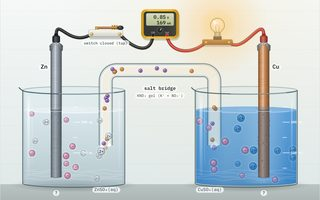
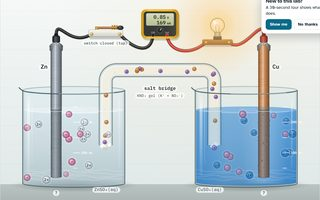
Galvanic Cell: Exercise screen and solving it in the lab
- Pick two half-cells and concentrations (0.001-2 M); concentration cells too
- Steps: build the cell, predict the anode, half-equations and overall, E°cell, set concentrations, voltmeter, Nernst emf, check with the readings, cell notation, answers
- Typographic minus in the E°cell readout

Claude-Session: https://claude.ai/code/session_01EJxk2nM6avKJzUWi38t4jE

diff --git a/galvanic-cell-lab.html b/galvanic-cell-lab.html
@@ -166,6 +166,13 @@ footer{color:var(--muted);font-size:.85rem;border-top:1px solid var(--line);padd
 .stage-ui .legend3{font-size:12.5px}
 .stage-ui #axis{border:1px solid var(--line);border-radius:10px}
 .stage-ui .solo-in{padding:8px 4px 20px}
+.stage-ui .exhead{display:flex;align-items:center;justify-content:space-between;gap:12px;flex-wrap:wrap}.stage-ui .exhead h2{margin:0;font:800 1.4rem/1.2 var(--display)}
+.stage-ui .exgrid{display:grid;grid-template-columns:minmax(0,1.6fr) minmax(0,1fr);gap:12px 18px}@media (max-width:560px){.stage-ui .exgrid{grid-template-columns:minmax(0,1fr)}}
+.stage-ui .exgrid label{display:flex;flex-direction:column;gap:4px;font-weight:700;font-size:14px}
+.stage-ui .exgrid span{display:flex;align-items:center;gap:6px;font:600 14px var(--data);color:var(--muted)}
+.stage-ui .exgrid input[type=number]{width:7.5em;font:600 15px var(--data);padding:6px 8px;border:1.5px solid var(--line);border-radius:8px;background:var(--stage);color:var(--ink)}
+.stage-ui .exgrid input[aria-invalid="true"]{border-color:var(--bad,#C0392B)}
+.stage-ui .exq p{margin:0}.stage-ui .exq ol{margin:0;padding-left:1.4em;display:flex;flex-direction:column;gap:6px}
 @media (max-width:860px),(max-height:560px){.stage-ui .scene{aspect-ratio:1000/600}.stage-ui .hint3{display:none}}
 </style><script src="lab-viz.js"></script><link rel="stylesheet" href="site.css">
 </head><body>
@@ -344,8 +351,22 @@ footer{color:var(--muted);font-size:.85rem;border-top:1px solid var(--line);padd
   </div>
  </div></section>
 
+ <section class="screen solo" id="p-ex" data-screens="ex" hidden><div class="solo-in">
+  <div class="exhead"><h2>Exercise</h2><div class="transport"><button class="btn" type="button" id="exEg">Example</button><button class="btn primary" type="button" id="exSolve"><svg viewBox="0 0 24 24" width="18" height="18" aria-hidden="true"><path d="M8 5l11 7-11 7z" fill="currentColor"/></svg>Solve it in the lab</button></div></div>
+  <section class="group exf">
+   <div class="exgrid">
+    <label>Half-cell 1 (left beaker) <select id="exM1" class="sel"></select></label>
+    <label>Concentration of its ion <span><input id="exC1" type="number" inputmode="decimal" min="0.001" max="2" step="any" value="1"> M</span></label>
+    <label>Half-cell 2 (right beaker) <select id="exM2" class="sel"></select></label>
+    <label>Concentration of its ion <span><input id="exC2" type="number" inputmode="decimal" min="0.001" max="2" step="any" value="1"> M</span></label>
+   </div>
+   <p class="note" id="exMsg">Leave 1 M for standard conditions. The lab can do 0.001 to 2 M.</p>
+  </section>
+  <section class="group exq"><h2>Your exercise</h2><p id="exText"></p><ol id="exQs"></ol></section>
+ </div></section>
+
 </main>
-<script>window.LAB = { screens: [ { id: 'intro', name: 'Intro', tab: 'cell', simple: true }, { id: 'lab', name: 'Lab', tab: 'cell' }, { id: 'zoom', name: 'Zoom', tab: 'cell' }, { id: 'three', name: '3D', tab: 'three' }, { id: 'series', name: 'Series', tab: 'series' }, { id: 'chal', name: 'Challenge', tab: 'chal' } ] };
+<script>window.LAB = { screens: [ { id: 'intro', name: 'Intro', tab: 'cell', simple: true }, { id: 'lab', name: 'Lab', tab: 'cell' }, { id: 'zoom', name: 'Zoom', tab: 'cell' }, { id: 'three', name: '3D', tab: 'three' }, { id: 'series', name: 'Series', tab: 'series' }, { id: 'chal', name: 'Challenge', tab: 'chal' }, { id: 'ex', name: 'Exercise' } ] };
 (function(){ var a = document.getElementById('swBtn'), b = document.getElementById('swBtn2');
   b.onclick = function(){ a.click(); };
   var sync = function(){ b.textContent = a.textContent; }; new MutationObserver(sync).observe(a, { childList: true, characterData: true, subtree: true }); sync(); })();</script>
@@ -445,7 +466,7 @@ function texts(){const {A,K}=cell;
  $('#notation').textContent=show?`⊖ ${A.s} | ${ionOf(A)} ‖ salt bridge ‖ ${ionOf(K)} | ${K.s} ⊕`:'⊖ ? | ? ‖ salt bridge ‖ ? | ? ⊕';
  const e=n=>n===1?'e⁻':`${n}e⁻`,cf=n=>n===1?'':n;
  $('#halfEq').textContent=show?`Anode (−), oxidation:   ${A.s} → ${ionOf(A)} + ${e(A.z)}\nCathode (+), reduction: ${ionOf(K)} + ${e(K.z)} → ${K.s}\nOverall: ${cf(cell.ca)}${A.s} + ${cf(cell.ck)}${ionOf(K)} → ${cf(cell.ca)}${ionOf(A)} + ${cf(cell.ck)}${K.s}   (${cell.n} e⁻ transferred)`:'Make your prediction to see the half-equations.';
- $('#rE0').textContent=`${fx(K.E,2)} − (${fx(A.E,2)}) = ${fx(K.E-A.E,2)} V`}
+ $('#rE0').textContent=`${fx(K.E,2)} − (${fx(A.E,2)}) = ${fx(K.E-A.E,2)} V`.replace(/-/g,'−')}
 function readouts(){const c=conc();$('#oCL').textContent=fx(c.L,c.L<.01?4:3)+' M';$('#oCR').textContent=fx(c.R,c.R<.01?4:3)+' M';
  $('#rE').textContent=fx(cell.E,3)+' V';$('#rV').textContent=fx(cell.V,3)+' V';$('#rI').textContent=cell.dev==='volt'?'≈ 0 (voltmeter only)':fx(cell.I*1000,0)+' mA';
  if(!cell.noCell){const c=conc(),E0=cell.same?0:cell.K.E-cell.A.E,cf=(v,k)=>k===1?fx(v,3):`(${fx(v,3)})${k===2?'²':'³'}`;$('#nernst').textContent=`E = E° − (0.0592/${cell.n})·log(${cf(c.A,cell.ca)} / ${cf(c.K,cell.ck)}) = ${fx(E0,2)} − ${fx(0.0592/cell.n,4)}·log(${fx(Math.pow(c.A,cell.ca)/Math.pow(c.K,cell.ck),3)}) = ${fx(cell.E,3)} V`}else $('#nernst').textContent='E = 0 V';
@@ -967,8 +988,67 @@ function loop(now){const dt=Math.min(.05,(now-last)/1000);last=now;
  if(tab==='cell'){physics(dt);stepParticles(dt);zoomStep(dt);try{drawCell();drawZoom()}catch(e){console.warn(e)}racc+=dt;if(racc>.2){racc=0;readouts();drawVG()}}
  if(tab==='three')T3.step(dt);
  requestAnimationFrame(loop)}
+
+/* =========================================================
+   EXERCISE: the student's cell, solved step by step in the lab (tour.js)
+   ========================================================= */
+M.forEach((m,i)=>{['#exM1','#exM2'].forEach(id=>$(id).insertAdjacentHTML('beforeend',`<option value="${i}">${m.s} in ${m.salt} (E° ${sg(m.E)} V)</option>`))});
+function sg(v){return (v>0?'+':v<0?'−':'')+fx(Math.abs(v),2)}
+$('#exM1').value=1;$('#exM2').value=7;
+const EXG={i1:1,i2:7,c1:1,c2:1};
+function exRead(){const num=(id)=>{const el=$(id),x=parseFloat(String(el.value).replace(',','.')),ok=isFinite(x)&&x>=0.001&&x<=2;el.setAttribute('aria-invalid',ok?'false':'true');return ok?x:null};
+ const i1=+$('#exM1').value,i2=+$('#exM2').value,c1=num('#exC1'),c2=num('#exC2'),m=$('#exMsg');
+ const clr=()=>{$('#exText').textContent='';$('#exQs').innerHTML=''};
+ if(c1==null||c2==null){m.textContent='Each concentration must be between 0.001 and 2 M.';clr();return null}
+ if(i1===i2&&Math.abs(Math.log10(c1/c2))<0.004){m.textContent='Same metal and same concentration: there is no cell (E = 0 V). Choose two metals, or change one concentration.';clr();return null}
+ m.textContent='Ready. Press “Solve it in the lab”.';Object.assign(EXG,{i1,i2,c1,c2});
+ const A=M[i1],B=M[i2],std=c1===1&&c2===1,same=i1===i2;
+ $('#exText').textContent=same?`A concentration cell is made of two ${A.name} half-cells: ${A.s} in ${c1} M ${ionOf(A)} and ${A.s} in ${c2} M ${ionOf(A)}, joined by a salt bridge.`:
+  `A galvanic cell is made of ${/^[aeiou]/.test(A.name)?'an':'a'} ${A.name} electrode in ${std?'':c1+' M '}${A.salt} solution and ${/^[aeiou]/.test(B.name)?'an':'a'} ${B.name} electrode in ${std?'':c2+' M '}${B.salt} solution${std?' (standard conditions, 1 M)':''}, joined by a salt bridge. E°(${ionOf(A)}/${A.s}) = ${sg(A.E)} V, E°(${ionOf(B)}/${B.s}) = ${sg(B.E)} V.`;
+ const q=same?['Which electrode is the anode and which is the cathode?','Write the half-equations.','Calculate the emf of the cell (Nernst equation).','Write the cell notation.']:
+  ['Which electrode is the anode and which is the cathode?','Write the half-equations and the overall equation.','Calculate E°cell.'].concat(std?[]:['Calculate the emf of the cell with the Nernst equation.']).concat(['Write the cell notation.','Which electrode gains mass, and which loses mass?']);
+ $('#exQs').innerHTML=q.map(t=>'<li>'+t+'</li>').join('');return EXG}
+['#exM1','#exM2','#exC1','#exC2'].forEach(id=>{$(id).addEventListener('input',exRead);$(id).addEventListener('change',exRead)});
+$('#exEg').onclick=()=>{$('#exM1').value=2;$('#exM2').value=6;$('#exC1').value=0.1;$('#exC2').value=1;exRead()};
+exRead();
+function exSolve(){const X=exRead();if(!X||!window.Tour)return;
+ const L=M[X.i1],R=M[X.i2],same=X.i1===X.i2,cL=X.c1,cR=X.c2,std=cL===1&&cR===1;
+ const anL=same?cL<cR:L.E<R.E,A=anL?L:R,K=anL?R:L,cA=anL?cL:cR,cK=anL?cR:cL,aSide=anL?'left':'right',kSideN=anL?'right':'left';
+ const n=A.z*K.z/gcd(A.z,K.z),ca=n/A.z,ck=n/K.z,E0=same?0:K.E-A.E,Qv=Math.pow(cA,ca)/Math.pow(cK,ck),E=E0-0.0592/n*Math.log10(Qv);
+ const e=z=>z===1?'e⁻':z+'e⁻',cf=k=>k===1?'':k,calc=t=>'<div class="t-calc">'+t+'</div>',mc=c=>(+c.toPrecision(3)).toString();
+ const go=ph=>()=>{const b=document.querySelector('.lg-nav [data-ph="'+ph+'"]');if(b&&document.documentElement.getAttribute('data-screen')!==ph)b.click()};
+ const pickSel=(sel,i)=>{const el=$(sel);el.value=i;el.dispatchEvent(new Event('change',{bubbles:true}))};
+ const near=(k,c)=>Math.abs(Math.log10(cell.c[k]/c))<0.051;
+ const snap=(k,c)=>{cell.c[k]=c;orient();texts();renderPred();initParticles();readouts()};
+ const setC=(k,c)=>{const el=$(k==='L'?'#sCL':'#sCR');el.value=Math.log10(c).toFixed(2);el.dispatchEvent(new Event('input',{bubbles:true}));snap(k,c)};
+ const halfs=`Anode (−), oxidation:   ${A.s} → ${ionOf(A)} + ${e(A.z)}\nCathode (+), reduction: ${ionOf(K)} + ${e(K.z)} → ${K.s}`+(same?'':`\nOverall (${n} e⁻): ${cf(ca)}${A.s} + ${cf(ck)}${ionOf(K)} → ${cf(ca)}${ionOf(A)} + ${cf(ck)}${K.s}`);
+ const qOf=(c,k)=>k===1?mc(c):'('+mc(c)+')'+(k===2?'²':'³');
+ const nernst=`E = E° − (0.0592 / n) · log Q\nQ = [${ionOf(A)}]${ca>1?(ca===2?'²':'³'):''}${same?' anode':''} / [${ionOf(K)}]${ck>1?(ck===2?'²':'³'):''}${same?' cathode':''} = ${qOf(cA,ca)} / ${qOf(cK,ck)} = ${mc(Qv)}\nE = ${fx(E0,2)} − (0.0592 / ${n}) · log ${mc(Qv)}\nE = ${fx(E,3)} V`;
+ const notation=std?`⊖ ${A.s} | ${ionOf(A)} ‖ ${ionOf(K)} | ${K.s} ⊕`:`⊖ ${A.s} | ${ionOf(A)} (${mc(cA)} M) ‖ ${ionOf(K)} (${mc(cK)} M) | ${K.s} ⊕`;
+ const steps=[{title:'Solve it in the lab',html:'<p>'+$('#exText').textContent+'</p><p>We build the same cell, find the anode, calculate, then check with the voltmeter.</p>',
+   onShow:()=>{go('lab')();if(cell.closed){cell.closed=false;syncSwitch()}$('#cPred').checked=true;$('#sCL').value=0;$('#sCR').value=0;zoomReset();setup()}},
+  {el:()=>$('#mL').closest('.field'),title:'Left beaker: '+L.name,html:`<p>Put <b>${L.s} in ${L.salt}</b> on the left.</p>`,wait:()=>cell.L===L,doIt:()=>pickSel('#mL',X.i1),done:L.s+' electrode in '+L.salt+'.'},
+  {el:()=>$('#mR').closest('.field'),title:'Right beaker: '+R.name,html:`<p>Put <b>${R.s} in ${R.salt}</b> on the right.</p>`,wait:()=>cell.R===R,doIt:()=>pickSel('#mR',X.i2),done:R.s+' electrode in '+R.salt+'.'}];
+ if(same)steps.push({title:'Which is the anode?',html:`<p>Both electrodes are ${A.name}, so E° is the same on both sides and <b>E°cell = 0</b>.</p><p>The <b>more dilute</b> side (${mc(cA)} M, ${aSide} beaker) is the anode: its metal dissolves to make the solution more concentrated. The ${mc(cK)} M side (${kSideN}) is the cathode.</p>`});
+ else steps.push({el:'#predCard',title:'Which is the anode?',html:`<p>Compare E°: ${L.s} ${sg(L.E)} V, ${R.s} ${sg(R.E)} V.</p><p>The metal with the <b>lower E°</b> loses electrons more easily, so it is oxidised: it is the <b>anode (−)</b>. Tap your answer.</p>`,
+   wait:()=>cell.answered,doIt:()=>{const b=document.querySelector('#predBtns [data-p="'+cell.an+'"]');if(b)b.click()},done:`Anode: ${A.name} (${aSide}). Cathode: ${K.name} (${kSideN}).`});
+ steps.push({title:'Half-equations',html:calc(halfs)+(same?'':`<p>${ca>1||ck>1?`The electrons must cancel, so we multiply: ${cf(ca)?ca+' × '+A.s:''}${cf(ca)&&cf(ck)?' and ':''}${cf(ck)?ck+' × '+ionOf(K):''}, ${n} electrons each way.`:`${n} electrons are lost and ${n} are gained, so they cancel.`}</p>`)});
+ if(!same)steps.push({title:'E°cell',html:calc(`E°cell = E°cathode − E°anode\nE°cell = ${fx(K.E,2).replace('-','−')} − (${fx(A.E,2).replace('-','−')})\nE°cell = ${fx(E0,2)} V`)+'<p>Positive, so the cell works by itself (spontaneous).</p>'});
+ if(!std){if(Math.abs(cL-1)>1e-9)steps.push({el:()=>$('#sCL').closest('.field'),title:'Left concentration: '+mc(cL)+' M',html:`<p>Drag the slider until [${ionOf(L)}] shows about <b>${mc(cL)} M</b>.</p>`,wait:()=>{if(near('L',cL)){if(cell.c.L!==cL)snap('L',cL);return true}return false},doIt:()=>setC('L',cL),done:`[${ionOf(L)}] = ${mc(cL)} M.`});
+  if(Math.abs(cR-1)>1e-9)steps.push({el:()=>$('#sCR').closest('.field'),title:'Right concentration: '+mc(cR)+' M',html:`<p>Drag the slider until [${ionOf(R)}] shows about <b>${mc(cR)} M</b>.</p>`,wait:()=>{if(near('R',cR)){if(cell.c.R!==cR)snap('R',cR);return true}return false},doIt:()=>setC('R',cR),done:`[${ionOf(R)}] = ${mc(cR)} M.`})}
+ steps.push({el:()=>document.querySelector('[data-dev="volt"]').parentElement,title:'Connect the voltmeter',html:'<p>Choose <b>Voltmeter</b>. It lets almost no current through, so it reads the emf without using the cell up.</p>',wait:()=>cell.dev==='volt',doIt:()=>document.querySelector('[data-dev="volt"]').click(),done:'Voltmeter connected.'});
+ steps.push({el:'#swBtn',title:'Close the switch',html:'<p>Close the switch to connect the meter.</p>',wait:()=>cell.closed,doIt:()=>{if(!cell.closed)$('#swBtn').click()},done:'Electrons can now flow from the anode to the cathode through the wire.'});
+ if(!std||same)steps.push({title:'emf with the Nernst equation',html:calc(nernst)+`<p>${E<E0-1e-6?'Q is bigger than 1, so E is a little lower than E°.':E>E0+1e-6?'Q is smaller than 1, so E is a little higher than E°.':'Q = 1, so E = E°.'}</p>`});
+ steps.push({el:()=>$('#rV').closest('.group'),title:'Check with the voltmeter',onShow:go('zoom'),html:`<p>We expect <b>${fx(std&&!same?E0:E,2)} V</b>. Read the voltmeter and E°cell here.</p>`,
+   done:()=>'Voltmeter: '+$('#rV').textContent+(same?'':' · E°cell: '+$('#rE0').textContent.split('=').pop().trim())+'.',wait:()=>/V/.test($('#rV').textContent)&&cell.closed});
+ steps.push({el:()=>$('#notation').closest('.group'),title:'Cell notation',html:calc(notation)+'<p>Anode on the left, cathode on the right. | is a phase boundary (metal | solution) and ‖ is the salt bridge.</p>'});
+ steps.push({title:'Your answers',html:calc(`Anode (−): ${A.name}${same?' ('+mc(cA)+' M side)':''}  ·  Cathode (+): ${K.name}${same?' ('+mc(cK)+' M side)':''}\n${halfs}`+(same?'':`\nE°cell = ${fx(E0,2)} V`)+(!std||same?`\nemf E = ${fx(E,3)} V`:'')+`\n${notation}\n${A.s} anode loses mass · ${K.s} cathode gains mass`)+'<p>Compare them with your own working.</p>'});
+ setTimeout(()=>Tour.start(steps,{label:'Exercise',skipText:'Stop',doneText:'Finish',lazy:true}),80)}
+$('#exSolve').onclick=exSolve;
+
 readColors();setup();readouts();$('#ordNew').onclick();nextQ();themeLabel();
 requestAnimationFrame(loop);
 </script>
+<script src="tour.js" defer></script>
 <script src="lab-guide.js" defer></script>
 </body></html>
